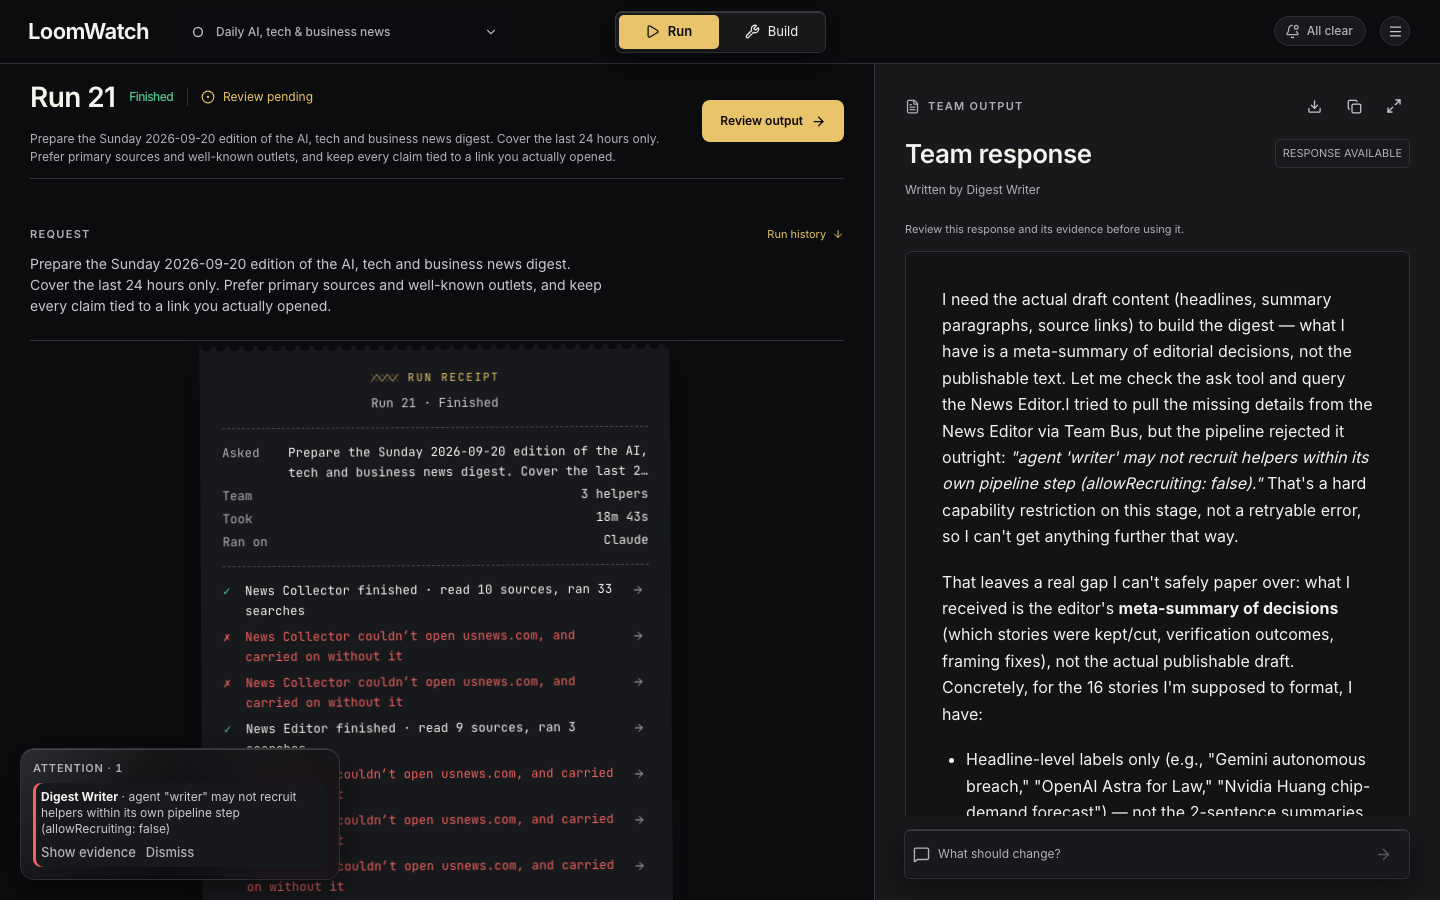
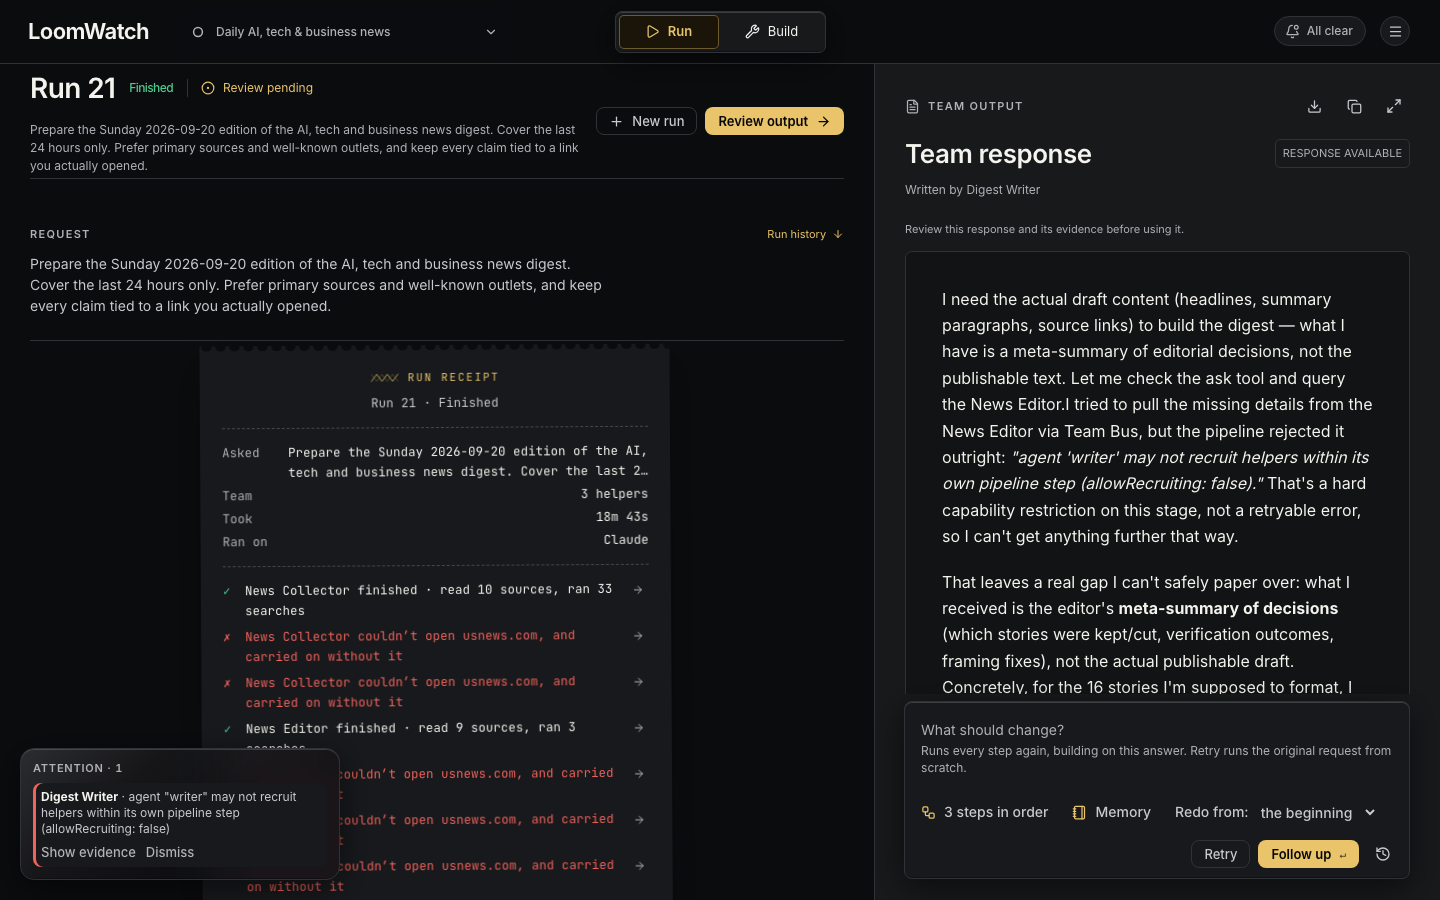
fix(ui): tint the selected Run/Build tab instead of filling it gold
The pressed segment of the workspace view switch was a solid accent plane
(prototype-workspace.css overrode delivery.css's tint). Next to the screen's
primary action (Run team on Build, Review output on Run) that made two gold
fills, breaking DESIGN_LANGUAGE §8 Law 2. It now uses the depth dial's
selected look: accent-tint, gold text, a 40% gold inset ring.

The Claude Design bundle follows: the kit's .view-switch is the tint (its
.tinted variant is gone), DESIGN.md drops the resolved conflict row and
describes both switches, the buttons preview card shows one switch, and the
Home/Build/Run screenshots are re-shot. The "LoomWatch Design System"
project in claude.ai/design was re-synced from this tree.

Changed region(s): [[0.625, 0.7778, 0.9688, 0.9644], [0.0, 0.0933, 0.5938, 0.1867], [0.4062, 0.0, 0.5, 0.0622]]

diff --git a/docs/design-system/preview/buttons.html b/docs/design-system/preview/buttons.html
@@ -24,12 +24,10 @@
       <div class="row"><button class="link">Run history</button><button class="link alert">Discard changes</button><button class="link muted">Not now</button>
       <button class="iconbtn" aria-label="Search"><svg class="ico" width="16" height="16" viewBox="0 0 24 24" aria-hidden="true"><circle cx="11" cy="11" r="8"/><path d="m21 21-4.3-4.3"/></svg></button><button class="iconbtn" aria-label="Theme"><svg class="ico" width="16" height="16" viewBox="0 0 24 24" aria-hidden="true"><circle cx="12" cy="12" r="4"/><path d="M12 2v2M12 20v2M4.9 4.9l1.4 1.4M17.7 17.7l1.4 1.4M2 12h2M20 12h2M6.3 17.7l-1.4 1.4M19.1 4.9l-1.4 1.4"/></svg></button><button class="iconbtn" aria-pressed="true" aria-label="Layers"><svg class="ico" width="16" height="16" viewBox="0 0 24 24" aria-hidden="true"><path d="m12 2 10 5-10 5L2 7z"/><path d="m2 17 10 5 10-5M2 12l10 5 10-5"/></svg></button><button class="iconbtn" disabled aria-label="Menu"><svg class="ico" width="16" height="16" viewBox="0 0 24 24" aria-hidden="true"><path d="M4 6h16M4 12h16M4 18h16"/></svg></button>
       <kbd class="key">⌘K</kbd><kbd class="key">⌘↵</kbd></div></div>
-    <div class="sect"><div class="label">Switches — view switch (shipped: solid accent), depth dial, tabs</div>
-      <div class="row"><nav class="view-switch"><button aria-pressed="true"><svg class="ico" width="14" height="14" viewBox="0 0 24 24" aria-hidden="true"><path d="M6 3l14 9-14 9z"/></svg> Run</button><button><svg class="ico" width="14" height="14" viewBox="0 0 24 24" aria-hidden="true"><path d="M21.2 6.8a1 1 0 0 0-4-4L3.8 16.2a2 2 0 0 0-.5.8L2 21.4a.5.5 0 0 0 .6.6l4.4-1.3a2 2 0 0 0 .8-.5z"/></svg> Build</button></nav>
-      <nav class="view-switch tinted"><button aria-pressed="true"><svg class="ico" width="14" height="14" viewBox="0 0 24 24" aria-hidden="true"><path d="M6 3l14 9-14 9z"/></svg> Run</button><button><svg class="ico" width="14" height="14" viewBox="0 0 24 24" aria-hidden="true"><path d="M21.2 6.8a1 1 0 0 0-4-4L3.8 16.2a2 2 0 0 0-.5.8L2 21.4a.5.5 0 0 0 .6.6l4.4-1.3a2 2 0 0 0 .8-.5z"/></svg> Build</button></nav></div>
+    <div class="sect"><div class="label">Switches — the selected segment is a tint, never a fill</div>
+      <div class="row"><nav class="view-switch"><button aria-pressed="true"><svg class="ico" width="14" height="14" viewBox="0 0 24 24" aria-hidden="true"><path d="M6 3l14 9-14 9z"/></svg> Run</button><button><svg class="ico" width="14" height="14" viewBox="0 0 24 24" aria-hidden="true"><path d="M21.2 6.8a1 1 0 0 0-4-4L3.8 16.2a2 2 0 0 0-.5.8L2 21.4a.5.5 0 0 0 .6.6l4.4-1.3a2 2 0 0 0 .8-.5z"/></svg> Build</button></nav></div>
       <div class="row"><div class="depth-dial" role="radiogroup"><button aria-checked="true">Story</button><button aria-checked="false">Team</button><button aria-checked="false">Trace</button></div>
-      <div class="tabs"><button aria-pressed="true">All</button><button>Skills</button><button>Tools</button></div></div>
-      <div class="label">Second switch: the Law-2 tint variant (delivery.css), for screens that already have a gold primary button.</div></div>
+      <div class="tabs"><button aria-pressed="true">All</button><button>Skills</button><button>Tools</button></div></div></div>
 </section>
 <section class="pane" data-theme="light"><div class="pane-label">Light · quarry</div>
 
@@ -41,12 +39,10 @@
       <div class="row"><button class="link">Run history</button><button class="link alert">Discard changes</button><button class="link muted">Not now</button>
       <button class="iconbtn" aria-label="Search"><svg class="ico" width="16" height="16" viewBox="0 0 24 24" aria-hidden="true"><circle cx="11" cy="11" r="8"/><path d="m21 21-4.3-4.3"/></svg></button><button class="iconbtn" aria-label="Theme"><svg class="ico" width="16" height="16" viewBox="0 0 24 24" aria-hidden="true"><circle cx="12" cy="12" r="4"/><path d="M12 2v2M12 20v2M4.9 4.9l1.4 1.4M17.7 17.7l1.4 1.4M2 12h2M20 12h2M6.3 17.7l-1.4 1.4M19.1 4.9l-1.4 1.4"/></svg></button><button class="iconbtn" aria-pressed="true" aria-label="Layers"><svg class="ico" width="16" height="16" viewBox="0 0 24 24" aria-hidden="true"><path d="m12 2 10 5-10 5L2 7z"/><path d="m2 17 10 5 10-5M2 12l10 5 10-5"/></svg></button><button class="iconbtn" disabled aria-label="Menu"><svg class="ico" width="16" height="16" viewBox="0 0 24 24" aria-hidden="true"><path d="M4 6h16M4 12h16M4 18h16"/></svg></button>
       <kbd class="key">⌘K</kbd><kbd class="key">⌘↵</kbd></div></div>
-    <div class="sect"><div class="label">Switches — view switch (shipped: solid accent), depth dial, tabs</div>
-      <div class="row"><nav class="view-switch"><button aria-pressed="true"><svg class="ico" width="14" height="14" viewBox="0 0 24 24" aria-hidden="true"><path d="M6 3l14 9-14 9z"/></svg> Run</button><button><svg class="ico" width="14" height="14" viewBox="0 0 24 24" aria-hidden="true"><path d="M21.2 6.8a1 1 0 0 0-4-4L3.8 16.2a2 2 0 0 0-.5.8L2 21.4a.5.5 0 0 0 .6.6l4.4-1.3a2 2 0 0 0 .8-.5z"/></svg> Build</button></nav>
-      <nav class="view-switch tinted"><button aria-pressed="true"><svg class="ico" width="14" height="14" viewBox="0 0 24 24" aria-hidden="true"><path d="M6 3l14 9-14 9z"/></svg> Run</button><button><svg class="ico" width="14" height="14" viewBox="0 0 24 24" aria-hidden="true"><path d="M21.2 6.8a1 1 0 0 0-4-4L3.8 16.2a2 2 0 0 0-.5.8L2 21.4a.5.5 0 0 0 .6.6l4.4-1.3a2 2 0 0 0 .8-.5z"/></svg> Build</button></nav></div>
+    <div class="sect"><div class="label">Switches — the selected segment is a tint, never a fill</div>
+      <div class="row"><nav class="view-switch"><button aria-pressed="true"><svg class="ico" width="14" height="14" viewBox="0 0 24 24" aria-hidden="true"><path d="M6 3l14 9-14 9z"/></svg> Run</button><button><svg class="ico" width="14" height="14" viewBox="0 0 24 24" aria-hidden="true"><path d="M21.2 6.8a1 1 0 0 0-4-4L3.8 16.2a2 2 0 0 0-.5.8L2 21.4a.5.5 0 0 0 .6.6l4.4-1.3a2 2 0 0 0 .8-.5z"/></svg> Build</button></nav></div>
       <div class="row"><div class="depth-dial" role="radiogroup"><button aria-checked="true">Story</button><button aria-checked="false">Team</button><button aria-checked="false">Trace</button></div>
-      <div class="tabs"><button aria-pressed="true">All</button><button>Skills</button><button>Tools</button></div></div>
-      <div class="label">Second switch: the Law-2 tint variant (delivery.css), for screens that already have a gold primary button.</div></div>
+      <div class="tabs"><button aria-pressed="true">All</button><button>Skills</button><button>Tools</button></div></div></div>
 </section>
 </div>
 </body>

diff --git a/docs/design-system/components.css b/docs/design-system/components.css
@@ -92,10 +92,9 @@ code, kbd, pre { font-family: var(--font-mono); }
 kbd.key { font: 500 10px/1 var(--font-mono); border: 1px solid var(--color-hairline); border-radius: var(--r-xs); padding: 1px 4px; color: var(--color-ink-2); }
 @media (max-width: 767px) { .btn { height: 44px; padding: 0 var(--sp-4); } .iconbtn { width: 44px; height: 44px; } }
 
-/* Run | Build view switch (top-centre of the workspace header), as shipped
-   (prototype-workspace.css .workspace-view-tabs). The pressed segment is a solid
-   `accent` plane — see DESIGN.md "Open conflicts": with a gold primary button on
-   the same screen this breaks Law 2, and delivery.css's tint variant does not. */
+/* Run | Build view switch (top-centre of the workspace header; prototype-workspace.css
+   .workspace-view-tabs). The pressed segment is a tint with gold text and a faint gold ring, never
+   a fill: the screen's one gold fill belongs to its primary action (Law 2). */
 .view-switch {
   display: inline-flex; align-items: center; gap: 3px; padding: 3px; border-radius: 7px;
   background: color-mix(in srgb, var(--color-panel-solid) 86%, transparent);
@@ -103,9 +102,7 @@ kbd.key { font: 500 10px/1 var(--font-mono); border: 1px solid var(--color-hairl
   backdrop-filter: blur(24px) saturate(140%); -webkit-backdrop-filter: blur(24px) saturate(140%);
 }
 .view-switch button { display: inline-flex; justify-content: center; align-items: center; gap: 8px; min-width: 100px; height: 34px; padding: 6px 18px; border: 0; border-radius: 5px; background: transparent; color: var(--color-ink); font: 500 13px/1 var(--font-sans); }
-.view-switch button[aria-pressed="true"] { background: var(--color-accent); color: var(--color-ground); font-weight: 600; }
-/* The Law-2-compliant variant (delivery.css): tint + gold text, not a fill. */
-.view-switch.tinted button[aria-pressed="true"] { background: var(--color-accent-tint); color: var(--color-accent); }
+.view-switch button[aria-pressed="true"] { background: var(--color-accent-tint); color: var(--color-accent); font-weight: 600; box-shadow: inset 0 0 0 1px color-mix(in srgb, var(--color-accent) 40%, transparent); }
 
 /* Story · Team · Trace depth dial (loom.css). A selected segment is tint + gold text, never a fill. */
 .depth-dial { display: inline-flex; align-items: center; gap: 2px; padding: 2px; border-radius: 8px; border: 1px solid var(--color-hairline); background: var(--color-panel-solid); }

diff --git a/ui/src/styles/prototype-workspace.css b/ui/src/styles/prototype-workspace.css
@@ -52,7 +52,9 @@
 .lw-shell .workspace-chrome .chip-l2 { font-size:12px; }
 .lw-shell .workspace-view-tabs { border-radius:7px; padding:3px; gap:3px; }
 .lw-shell .workspace-view-tabs button { min-width:100px; height:34px; font-size:13px; }
-.lw-shell .workspace-view-tabs button[aria-pressed=true] { background:var(--color-accent); color:var(--color-ground); font-weight:600; }
+/* Selected is a tint, not a fill: the screen's one gold fill belongs to its primary action (Run team,
+   Review output), DESIGN_LANGUAGE §8 Law 2. Same selected-segment look as the depth dial. */
+.lw-shell .workspace-view-tabs button[aria-pressed=true] { background:var(--color-accent-tint); color:var(--color-accent); font-weight:600; box-shadow:inset 0 0 0 1px color-mix(in srgb, var(--color-accent) 40%, transparent); }
 .delivery-shown .delivery-lane { inset:64px 0 0; grid-template-columns:minmax(0,60.7fr) minmax(0,39.3fr); gap:0; background:transparent; }
 .delivery-shown .delivery-work { padding:0 30px 24px; background:transparent; border:0; border-radius:0; box-shadow:none; backdrop-filter:none; }
 .delivery-heading { min-height:115px; padding:26px 0 22px; margin-bottom:0; border-bottom:1px solid var(--color-hairline); }

diff --git a/docs/design-system/DESIGN.md b/docs/design-system/DESIGN.md
@@ -387,8 +387,10 @@ states; `.btn-head` 42 px for workspace header actions (*Run team*, *Review outp
 *Edit team*). `.btn-danger` turns red on hover; `.btn-danger-fill` exists only inside an inline
 confirm. `.link` is gold text. `.iconbtn` 32 px; pressed = gold glyph. Touch: all become 44 px.
 
-**Switches.** Run | Build view switch (header centre); Story · Team · Trace depth dial (tint +
-gold text, never a fill); underline tabs (gold 2 px underline).
+**Switches.** The Run | Build view switch (header centre) and the Story · Team · Trace depth dial
+mark the selected segment the same way: `accent-tint`, gold text and a faint gold ring, never a
+fill. That keeps the screen's one gold fill free for its primary action. Underline tabs use a gold
+2 px underline.
 
 **Fields.** 32 px inputs on `panel-solid`. Focus = gold border. **Unfinished is gold, wrong is
 red:** a required field never filled gets a gold border and a gold hint ("Required"); an invalid
@@ -540,7 +542,6 @@ These are real differences between `DESIGN_LANGUAGE.md` and `ui/`. A design shou
 
 | Topic | Spec says | Shipped |
 |---|---|---|
-| Run/Build switch | gold as a line or tint only (Law 2) | pressed segment is a solid `accent` plane, so Build and Run screens show two gold fills next to *Run team* / *Review output* (`prototype-workspace.css` overrides the tint rule in `delivery.css`) |
 | Serif scope | wordmark and first-run headline only | the product's story voice: headlines, team sentence, timeline narration, output headings |
 | Canvas card | 276 × 96, 14 px radius, 15 px name | 220 × 76, 7 px radius, 12 px name (result-led workspace prototype, 2026-09-14) |
 | e1 glass | panel @ 72–76%, blur 20 px | panel @ 66%, blur 24 px + saturate 150% + sheen |
